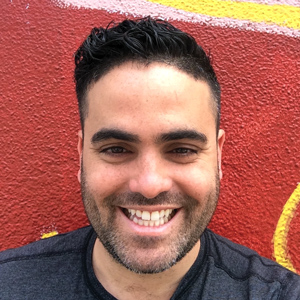
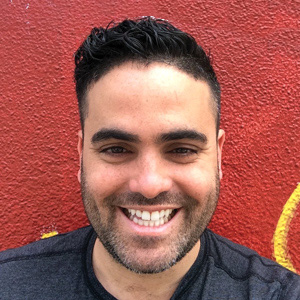
Restructure footer to allow next portfolio item integration

Changed region(s): [[0.18, 0.0, 1.0, 0.15]]

diff --git a/templates/partials/footer.html b/templates/partials/footer.html
@@ -1,26 +1,46 @@
-<hr>
-{% if !home_page %}
-  {% include "templates/partials/nav.html" with {slim: true} %}
-{% endif %}
-<nav class="flex flex--inline flex--horizontalCenter footer">
-  <a href="http://codepen.io/alexisg/" onclick="trackOutboundLink('http://codepen.io/alexisg/'); return false;" target="_blank" class="footer__item no-smoothstate">
-    <svg class="footer__icon icon icon--codepen"><use xmlns:xlink="http://www.w3.org/1999/xlink" xlink:href="#icon-codepen"></use></svg>
-    CodePen
-  </a>
-  <a href="http://dribbble.com/alexisg" onclick="trackOutboundLink('http://dribbble.com/alexisg'); return false;" target="_blank" class="footer__item no-smoothstate">
-    <svg class="footer__icon icon icon--dribbble"><use xmlns:xlink="http://www.w3.org/1999/xlink" xlink:href="#icon-dribbble"></use></svg>
-    Dribbble
-  </a>
-  <a href="https://github.com/alexisg?utf8=%E2%9C%93&tab=repositories&q=&type=source&language=" onclick="trackOutboundLink('https://github.com/alexisg?utf8=%E2%9C%93&tab=repositories&q=&type=source&language='); return false;" target="_blank" class="footer__item no-smoothstate">
-    <svg class="footer__icon icon icon--github"><use xmlns:xlink="http://www.w3.org/1999/xlink" xlink:href="#icon-github"></use></svg>
-    Github
-  </a>
-  <a href="https://www.linkedin.com/in/alexisgallisa" onclick="trackOutboundLink('https://www.linkedin.com/in/alexisgallisa'); return false;" target="_blank" class="footer__item no-smoothstate">
-    <svg class="footer__icon icon icon--linkedin"><use xmlns:xlink="http://www.w3.org/1999/xlink" xlink:href="#icon-linkedin"></use></svg>
-    LinkedIn
-  </a>
-  <a href="http://twitter.com/alexisg" onclick="trackOutboundLink('http://twitter.com/alexisg'); return false;" target="_blank" class="footer__item no-smoothstate">
-    <svg class="footer__icon icon icon--twitter"><use xmlns:xlink="http://www.w3.org/1999/xlink" xlink:href="#icon-twitter"></use></svg>
-    Twitter
-  </a>
-</nav>
+<footer>
+
+  <hr>
+  {% if !home_page %}
+    <ul class="grid grid--xs-1-3">
+      <li><a href="/">Home</a></li>
+      <li class="align-center"><a href="#" class="js-scroll-top">⤴ Top</a></li>
+      {% for object in data %}
+        {#
+        {% if item.preview_url == object.preview_url && data[loop.key - 1] %}
+          <li><a href="{{ url(data[loop.key - 1]) }}" class="js-anchor-left">&laquo; Prev</a></li>
+        {% endif %}
+        #}
+        {% if item.preview_url == object.preview_url && data[loop.key + 1] %}
+          <li class="align-right"><a href="{{ url(data[loop.key + 1]) }}" class="js-anchor-right">Next &raquo;</a></li>
+        {% elseif item.preview_url == object.preview_url && !data[loop.key + 1] %}
+          <li class="align-right"><a href="{{ url(data[0]) }}" class="js-anchor-right">Next &raquo;</a></li>
+        {% endif %}
+      {% endfor %}
+    </ul>
+  {% endif %}
+
+  <nav class="flex flex--inline flex--horizontal-center network">
+    <a href="http://codepen.io/alexisg/" onclick="trackOutboundLink('http://codepen.io/alexisg/'); return false;" target="_blank" class="network__item no-smoothstate">
+      <svg class="network__icon icon icon--codepen"><use xmlns:xlink="http://www.w3.org/1999/xlink" xlink:href="#icon-codepen"></use></svg>
+      CodePen
+    </a>
+    <a href="http://dribbble.com/alexisg" onclick="trackOutboundLink('http://dribbble.com/alexisg'); return false;" target="_blank" class="network__item no-smoothstate">
+      <svg class="network__icon icon icon--dribbble"><use xmlns:xlink="http://www.w3.org/1999/xlink" xlink:href="#icon-dribbble"></use></svg>
+      Dribbble
+    </a>
+    <a href="https://github.com/alexisg?utf8=%E2%9C%93&tab=repositories&q=&type=source&language=" onclick="trackOutboundLink('https://github.com/alexisg?utf8=%E2%9C%93&tab=repositories&q=&type=source&language='); return false;" target="_blank" class="network__item no-smoothstate">
+      <svg class="network__icon icon icon--github"><use xmlns:xlink="http://www.w3.org/1999/xlink" xlink:href="#icon-github"></use></svg>
+      Github
+    </a>
+    <a href="https://www.linkedin.com/in/alexisgallisa" onclick="trackOutboundLink('https://www.linkedin.com/in/alexisgallisa'); return false;" target="_blank" class="network__item no-smoothstate">
+      <svg class="network__icon icon icon--linkedin"><use xmlns:xlink="http://www.w3.org/1999/xlink" xlink:href="#icon-linkedin"></use></svg>
+      LinkedIn
+    </a>
+    <a href="http://twitter.com/alexisg" onclick="trackOutboundLink('http://twitter.com/alexisg'); return false;" target="_blank" class="network__item no-smoothstate">
+      <svg class="network__icon icon icon--twitter"><use xmlns:xlink="http://www.w3.org/1999/xlink" xlink:href="#icon-twitter"></use></svg>
+      Twitter
+    </a>
+  </nav>
+
+</footer>

diff --git a/sass/modules/_flex.sass b/sass/modules/_flex.sass
@@ -9,8 +9,8 @@
 //   <div class="flex__item">.flex__item 2</div>
 //   <div class="flex__item">.flex__item 3</div>
 // </div>
-// <strong>flex flex--rowReverse</strong>
-// <div class="flex flex--rowReverse show-grid">
+// <strong>flex flex--row-reverse</strong>
+// <div class="flex flex--row-reverse show-grid">
 //   <div class="flex__item">.flex__item 1</div>
 //   <div class="flex__item">.flex__item 2</div>
 //   <div class="flex__item">.flex__item 3</div>
@@ -21,8 +21,8 @@
 //   <div class="flex__item">.flex__item 2</div>
 //   <div class="flex__item">.flex__item 3</div>
 // </div>
-// <strong>flex flex--columnReverse</strong>
-// <div class="flex flex--columnReverse show-grid">
+// <strong>flex flex--column-reverse</strong>
+// <div class="flex flex--column-reverse show-grid">
 //   <div class="flex__item">.flex__item 1</div>
 //   <div class="flex__item">.flex__item 2</div>
 //   <div class="flex__item">.flex__item 3</div>
@@ -54,21 +54,21 @@
   flex-direction: column
 
 // Reverse rows or columns
-.flex--rowReverse
+.flex--row-reverse
   flex-direction: row-reverse
-.flex--columnReverse
+.flex--column-reverse
   flex-direction: column-reverse
 
 //In case we need to force it tall
-.flex--fullHeight
+.flex--full-height
   height: 100%
 
 // Affects the stretch or position of items inside container
 // All items will align vertically in each row.
-.flex--verticalCenter
+.flex--vertical-center
   align-items: center
 // All items will align to the bottom of each row.
-.flex--verticalEnd
+.flex--vertical-end
   align-items: flex-end
 // All items will stretch to fill all available space
 .flex--stretch
@@ -76,11 +76,11 @@
 
 // More info on justify
 // https://developer.mozilla.org/en-US/docs/Web/CSS/justify-content
-.flex--horizontalCenter
+.flex--horizontal-center
   justify-content: center
-.flex--horizontalEnd
+.flex--horizontal-end
   justify-content: flex-end
-.flex--spaceBetween
+.flex--space-between
   justify-content: space-between
 
 // Flex Items
@@ -90,10 +90,10 @@
 // By default our flex items are set to not grow as the W3 standard
 .flex__item--grow
   flex-grow: 1
-.flex__item--noGrow
+.flex__item--no-grow
   flex-grow: 0
 // Opposite of above
-.flex__item--noShrink
+.flex__item--no-shrink
   flex-shrink: 0
 // Alight to the right
 .flex__item--end

diff --git a/static/js/main.js b/static/js/main.js
@@ -13,9 +13,12 @@ var navToggle = function (e) {
 }
 
 // Force collapes of the navbar on anchor links
-var removeToggle = function (e) {
+var anchorSetup = function (e) {
   $( "a" ).click(function() {
     $('body').removeClass('is-navbar-active');
+  });
+  $( ".js-scroll-top" ).click(function() {
+    $('body').animate({ scrollTop: 0 }, 600);
   });
 }
 
@@ -69,7 +72,7 @@ $(function() {
         .addClass('transition-start')
         .attr('data-enter', getEnterExitString('enter'));
       videoLoad();
-      removeToggle();
+      anchorSetup();
     }
   }).data('smoothState');
 
@@ -77,7 +80,7 @@ $(function() {
 
   // Kick off video load function
   videoLoad();
-  removeToggle();
+  anchorSetup();
 
   // Kick off the animation class on first load since smoothstate is not yet available
   $('#js-main')

diff --git a/sass/components/_footer.sass b/sass/components/_footer.sass
@@ -1,11 +1,11 @@
 // ---------------------------
 // List of networks in footer
 // ---------------------------
-.footer
+.network
   margin: guv(2) auto
   width: 100%
 
-.footer__item
+.network__item
   color:  $color-hdr
   flex: 0 0 auto
   font-size: $font-size-7
@@ -13,7 +13,7 @@
   &:hover
     color:  $color-hdr
 
-.footer__icon
+.network__icon
   display: block
   margin: 0 auto .5rem
   transition: all .3s

diff --git a/templates/partials/header.html b/templates/partials/header.html
@@ -2,7 +2,7 @@
 
   {% if !home_page %}<a href="/">{% endif %}
     <div class="portrait transition">
-      <div class="portrait__img"><img src="/static/images/pic300.jpg" alt="Portrait image"></div>
+      <div class="portrait__img"><img src="/static/images/pic216.jpg" alt="Portrait image"></div>
       <span class="portrait__icon icon icon--andre"></span>
     </div>
     <h1 class="header__logo align-center">

diff --git a/templates/partials/nav.html b/templates/partials/nav.html
@@ -12,7 +12,7 @@
     {% if home_page %}
        grid grid--xs-1-1 grid--sm-1-2 nav-portfolio
     {% else %}
-       flex flex--spaceBetween flex--stretch nav-portfolio nav-portfolio--row
+       flex flex--space-between flex--stretch nav-portfolio nav-portfolio--row
     {% endif %}
   ">
     {% if !home_page %}

diff --git a/sass/components/_nav.sass b/sass/components/_nav.sass
@@ -22,8 +22,6 @@
 
 .nav-portfolio--row
   display: flex
-  align-items: stretch
-  justify-content: space-between
   flex-direction: column
   flex-wrap: wrap
   text-align: left
